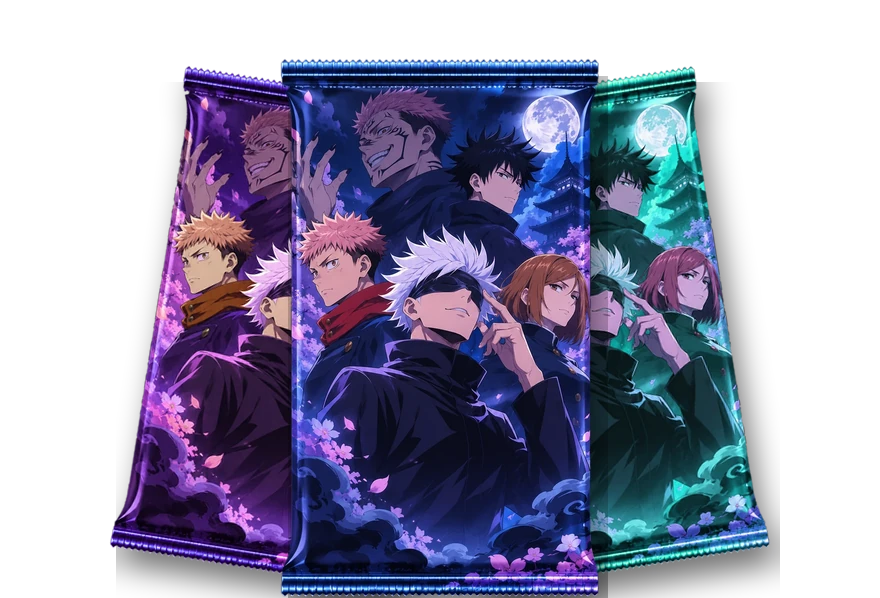
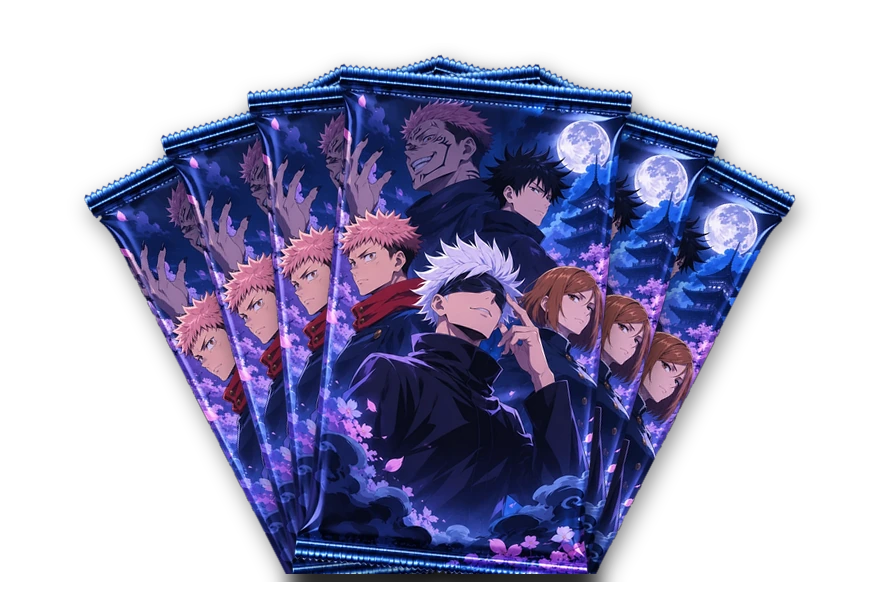
Гача: наборы — витрина с лучом и подставкой, новая графика веера и ящика
Claude-Session: https://claude.ai/code/session_01P9LNY4YK5SysrNo5tNmMaK

diff --git a/src/app/cards-arsenal.css b/src/app/cards-arsenal.css
@@ -358,3 +358,22 @@
 .cg:not([data-tab="season"]) .bt-go em { background: rgba(0,0,0,.22) !important; border: 0 !important; border-radius: 8px !important; }
 .cg:not([data-tab="season"]) .bt-go > svg, .cg:not([data-tab="season"]) .bt-go .ico { background: rgba(255,255,255,.16) !important; border: 0 !important; }
 .cg:not([data-tab="season"]) .bt-go small { color: rgba(255,255,255,.85) !important; }
+
+/* ===== Витрина наборов ===== */
+.cg .sc{display:grid;grid-template-columns:repeat(3,1fr);gap:14px;margin:4px 0 18px}
+.cg .sc-c{position:relative;display:flex;flex-direction:column;align-items:center;gap:4px;padding:0 10px 16px;border:1px solid rgba(120,150,220,.14);border-radius:18px;background:linear-gradient(180deg,rgba(18,22,38,.7),rgba(10,13,24,.9));overflow:hidden;cursor:pointer;color:#e8eefc;transition:transform .2s,border-color .2s,box-shadow .2s}
+.cg .sc-c:hover{transform:translateY(-3px)}
+.cg .sc-c[aria-pressed="true"]{border-color:var(--oc);box-shadow:0 0 0 1px var(--oc),0 10px 36px -10px var(--oc)}
+.cg .sc-c:disabled{opacity:.6;cursor:default}
+.cg .sc-art{position:relative;width:100%;height:190px;display:flex;align-items:flex-end;justify-content:center;margin-bottom:8px}
+.cg .sc-cone{position:absolute;top:-6px;left:50%;width:78%;height:100%;transform:translateX(-50%);background:linear-gradient(180deg,var(--oc),transparent 85%);clip-path:polygon(38% 0,62% 0,100% 100%,0 100%);opacity:.26;filter:blur(2px)}
+.cg .sc-c[aria-pressed="true"] .sc-cone{opacity:.42}
+.cg .sc-ped{position:absolute;bottom:-4px;left:50%;width:76%;height:26px;transform:translateX(-50%);border-radius:50%;background:radial-gradient(ellipse at center,var(--oc) 0,rgba(20,26,46,.9) 60%,transparent 72%);opacity:.8}
+.cg .sc-art img{position:relative;z-index:1;max-width:92%;max-height:176px;object-fit:contain;filter:drop-shadow(0 10px 14px rgba(0,0,0,.55))}
+.cg .sc-gift{position:absolute;z-index:2;top:8px;right:6px;display:inline-flex;align-items:center;gap:3px;padding:3px 9px;border-radius:999px;background:var(--oc);color:#06101f;font:800 13px/1 var(--font-onest),sans-serif}
+.cg .sc-pill{position:absolute;z-index:3;top:10px;left:50%;transform:translateX(-50%);padding:5px 12px;border-radius:999px;background:#6d3dff;color:#fff;font:800 11px/1 var(--font-onest),sans-serif;letter-spacing:.06em;text-transform:uppercase;white-space:nowrap;box-shadow:0 4px 14px rgba(109,61,255,.5)}
+.cg .sc-n{font:400 22px/1.1 var(--font-dela),sans-serif;letter-spacing:.02em}
+.cg .sc-x{font-size:13px;color:#8fa0c4}
+.cg .sc-price{display:inline-flex;align-items:center;gap:5px;margin-top:4px;font-weight:800;font-size:18px}
+.cg .sc-lack{font-size:12px;color:#ff8a9a}
+@media(max-width:640px){.cg .sc{gap:8px}.cg .sc-art{height:130px}.cg .sc-art img{max-height:120px}.cg .sc-n{font-size:15px}.cg .sc-price{font-size:15px}.cg .sc-pill{font-size:9px;padding:4px 8px}}

diff --git a/src/components/cards/PacksTab.tsx b/src/components/cards/PacksTab.tsx
@@ -287,6 +287,48 @@ export function PacksTab({ s }: { s: CardsState }) {
               )}
     </>
   );
+  const SC_NAME = ["Старт", "Веер", "Ящик"];
+  const showEl = pendingOffers ? null : (
+    <div className="sc" role="group" aria-label="Наборы паков">
+      {bundles.map((b, i) => {
+        const l = lackOf(b);
+        const gift = effectivePay === "token" ? 0 : b.n - b.pay;
+        const last = i === bundles.length - 1;
+        return (
+          <button
+            key={b.n}
+            type="button"
+            className="sc-c"
+            data-i={i}
+            aria-pressed={sel === i}
+            disabled={loading}
+            style={{ ["--oc" as string]: OFFER_COLOR[i] ?? OFFER_COLOR[0] }}
+            onClick={() => setSel(i)}
+          >
+            {last && <span className="sc-pill">Выгоднее всего</span>}
+            <span className="sc-art" aria-hidden>
+              <i className="sc-cone" />
+              <i className="sc-ped" />
+              <img src={`/cards/offers/${Math.min(i, 2) + 1}.webp`} alt="" draggable={false} />
+              {gift > 0 && (
+                <span className="sc-gift">
+                  <Ico name="gift" size={13} />+{gift}
+                </span>
+              )}
+            </span>
+            <b className="sc-n">{SC_NAME[i] ?? `×${b.n}`}</b>
+            <span className="sc-x">
+              ×{b.n} {packWord(b.n)}
+            </span>
+            <span className="sc-price">
+              {fmt(costOf(b))} <Cur k={PAY_CUR[effectivePay]} size={16} />
+            </span>
+            {l > 0 && <span className="sc-lack">Не хватает {fmt(l)} {unit}</span>}
+          </button>
+        );
+      })}
+    </div>
+  );
   const stageEl = (
             <div className="st-stage">
               {pendingOffers ? (
@@ -404,11 +446,12 @@ export function PacksTab({ s }: { s: CardsState }) {
             </label>
           </div>
 
+          {showEl}
+
           <div className="st-dock" data-pick={pendingOffers ? "1" : undefined}>
             {stageEl}
 
             <div className="pk-info st-co">
-              {pickEl}
               <div className="pk-chips">
                 <span className="cg-eyebrow">Набор AniGalaxy</span>
                 <span className="cg-chip">{PACK.choices} карты на выбор</span>
